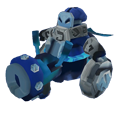
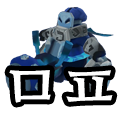
Jaws v0.1.10
- 이모티콘 추가 (힘의차이)
- 이모티콘 수정 (머포)

Changed region(s): [[0.5, 0.5575, 1.0, 0.9558], [0.025, 0.5575, 0.475, 0.9558]]

diff --git a/lib/dccon_list.js b/lib/dccon_list.js
@@ -7,6 +7,7 @@ dcConsData = [
 
 	// 다크소울
 	{ name: "태양만세.jpg", keywords: ["태양만세", "Y"] },
+	{ name: "솔라힘의차이.png", keywords: ["힘의차이", "power"] },
 
 	// 래트로폴리스
 	{ name: "래트로_도공.png", keywords: ["도공"] },

diff --git a/README.md b/README.md
@@ -1,6 +1,6 @@
 # 죠스콘
 ## 게임하는 죠스님을 위한 BBCC 디씨콘 채팅창 (Bridge BBCC for pgjaws)
-JawsBridgeBBCC v0.1.9
+JawsBridgeBBCC v0.1.10
 
 ## 설정법
 0. '게임하는죠스' 채널 기준으로 작성됨
